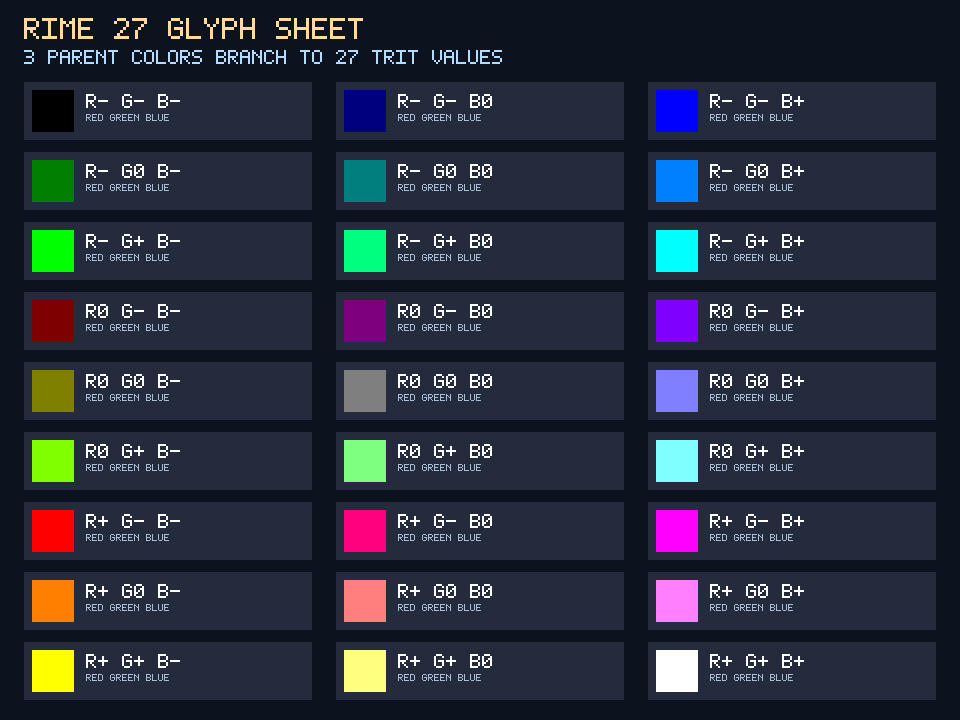
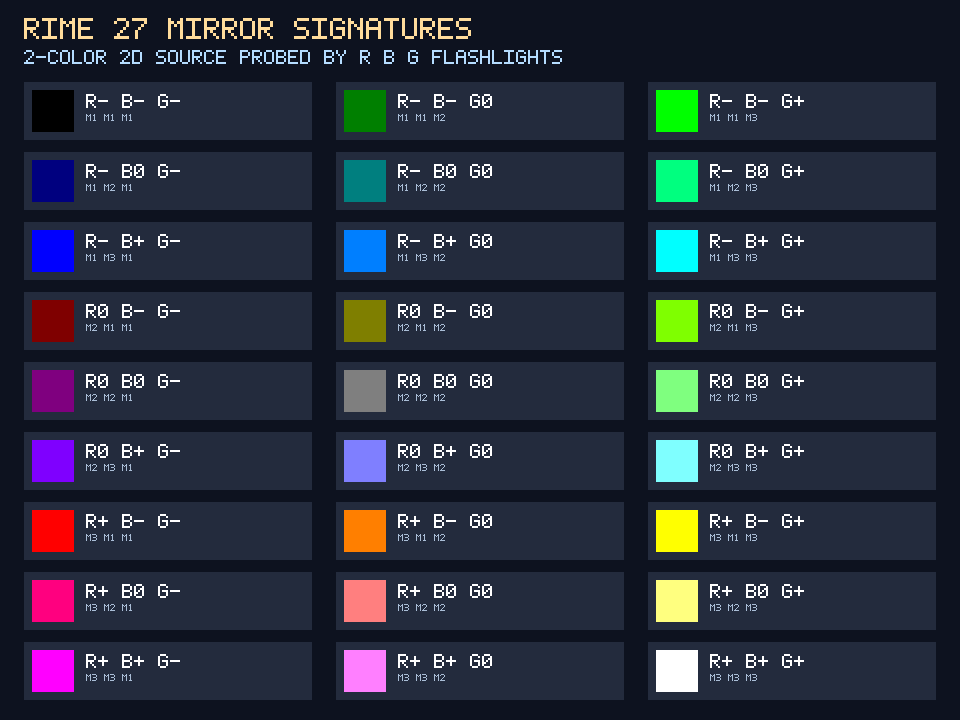
Correct RIME source to two-color 2D mirror model

diff --git a/scratch/new-rime-trit-system/src/trit.rs b/scratch/new-rime-trit-system/src/trit.rs
@@ -10,15 +10,23 @@ impl Trit {
 }
 
 #[derive(Clone, Copy, Debug, Eq, PartialEq)]
-pub struct ColorGlyph { pub red: Trit, pub green: Trit, pub blue: Trit }
+pub enum SourceColorSlot { First, Second }
 
-impl ColorGlyph {
-    pub fn ordinal(self) -> u8 { self.red.code() * 9 + self.green.code() * 3 + self.blue.code() }
-    pub fn rgb(self) -> [u8; 3] { [self.red.rgb(), self.green.rgb(), self.blue.rgb()] }
-    pub fn all() -> Vec<ColorGlyph> {
+impl SourceColorSlot {
+    pub const ALL: [SourceColorSlot; 2] = [SourceColorSlot::First, SourceColorSlot::Second];
+}
+
+#[derive(Clone, Copy, Debug, Eq, PartialEq)]
+pub struct FlashMirrorSignature { pub red: Trit, pub blue: Trit, pub green: Trit }
+
+impl FlashMirrorSignature {
+    pub fn ordinal(self) -> u8 { self.red.code() * 9 + self.blue.code() * 3 + self.green.code() }
+    pub fn display_rgb(self) -> [u8; 3] { [self.red.rgb(), self.green.rgb(), self.blue.rgb()] }
+    pub fn mirror_paths(self) -> [u8; 3] { [self.red.code() + 1, self.blue.code() + 1, self.green.code() + 1] }
+    pub fn all() -> Vec<FlashMirrorSignature> {
         let mut out = Vec::with_capacity(27);
-        for red in Trit::ALL { for green in Trit::ALL { for blue in Trit::ALL {
-            out.push(ColorGlyph { red, green, blue });
+        for red in Trit::ALL { for blue in Trit::ALL { for green in Trit::ALL {
+            out.push(FlashMirrorSignature { red, blue, green });
         }}}
         out
     }
@@ -58,19 +66,31 @@ impl RimeCoordinate {
 }
 
 #[derive(Debug, Eq, PartialEq)]
-pub struct TritStats { pub glyphs: usize, pub coordinates: usize }
+pub struct TritStats {
+    pub source_dimensions: usize,
+    pub source_colors: usize,
+    pub view_signatures: usize,
+    pub coordinates: usize,
+}
 
 pub fn verify() -> Result<TritStats, String> {
-    let glyphs = ColorGlyph::all();
+    let source_colors = SourceColorSlot::ALL;
+    if source_colors.len() != 2 { return Err("2D source must start with exactly two color slots".into()); }
+    let signatures = FlashMirrorSignature::all();
     let mut ordinals = [false; 27];
-    let mut rgb = Vec::with_capacity(glyphs.len());
-    for glyph in &glyphs {
-        let ordinal = usize::from(glyph.ordinal());
-        if ordinals[ordinal] || rgb.contains(&glyph.rgb()) { return Err(format!("glyph collision at {ordinal}")); }
+    let mut projections = Vec::with_capacity(signatures.len());
+    for signature in &signatures {
+        let ordinal = usize::from(signature.ordinal());
+        if ordinals[ordinal] || projections.contains(&signature.display_rgb()) {
+            return Err(format!("flash/mirror signature collision at {ordinal}"));
+        }
         ordinals[ordinal] = true;
-        rgb.push(glyph.rgb());
+        projections.push(signature.display_rgb());
+        if signature.mirror_paths().iter().any(|path| !(1..=3).contains(path)) {
+            return Err("mirror path left the 1/2/3 gate".into());
+        }
     }
-    if !ordinals.iter().all(|seen| *seen) { return Err("missing trinary color glyph".into()); }
+    if !ordinals.iter().all(|seen| *seen) { return Err("missing RGB flashlight/mirror signature".into()); }
     let coordinates = RimeCoordinate::all();
     let mut seen = [false; 27];
     for coordinate in coordinates.iter().copied() {
@@ -79,12 +99,27 @@ pub fn verify() -> Result<TritStats, String> {
         seen[ordinal] = true;
     }
     if !seen.iter().all(|value| *value) { return Err("missing RIME coordinate".into()); }
-    Ok(TritStats { glyphs: glyphs.len(), coordinates: coordinates.len() })
+    Ok(TritStats {
+        source_dimensions: 2,
+        source_colors: source_colors.len(),
+        view_signatures: signatures.len(),
+        coordinates: coordinates.len(),
+    })
 }
 
 #[cfg(test)]
 mod tests {
-    use super::*;#[test] fn exactly_27_color_glyphs() { assert_eq!(verify().unwrap().glyphs, 27); }
+    use super::*;
+    #[test] fn two_color_2d_source_produces_27_probe_signatures() {
+        let stats = verify().unwrap();
+        assert_eq!((stats.source_dimensions, stats.source_colors), (2, 2));
+        assert_eq!(stats.view_signatures, 27);
+    }
+    #[test] fn every_flashlight_uses_one_two_or_three_mirrors() {
+        assert!(FlashMirrorSignature::all().iter().all(|signature| {
+            signature.mirror_paths().iter().all(|path| (1..=3).contains(path))
+        }));
+    }
     #[test] fn paths_are_variable_length_trit_addresses() {
         let mut path = RimePath::new(); path.push(Trit::Negative); path.push(Trit::Positive);
         assert_eq!(path.address(), "R.-.+"); assert_eq!(path.base3_code(), Some(2));

diff --git a/scratch/new-rime-trit-system/generate_cloud_glyph_artifacts.py b/scratch/new-rime-trit-system/generate_cloud_glyph_artifacts.py
@@ -15,8 +15,9 @@ from pathlib import Path
 ROOT = Path(__file__).resolve().parent
 OUT = ROOT / "cloud-glyph-results"
 STATES = ("-", "0", "+")
-CHANNELS = ("RED", "GREEN", "BLUE")
+FLASHLIGHTS = ("RED", "BLUE", "GREEN")
 VALUES = {"-": 0, "0": 127, "+": 255}
+MIRROR_PATH = {"-": 1, "0": 2, "+": 3}
 FONT = {
     " ": (0, 0, 0, 0, 0, 0, 0), "+": (0, 4, 4, 31, 4, 4, 0), "-": (0, 0, 0, 31, 0, 0, 0), "0": (14, 17, 19, 21, 25, 17, 14),
     "1": (4, 12, 4, 4, 4, 4, 14), "2": (14, 17, 1, 2, 4, 8, 31), "3": (30, 1, 1, 14, 1, 1, 30), "7": (31, 1, 2, 4, 8, 8, 8),
@@ -86,61 +87,76 @@ class Canvas:
 
 
 def label(t: tuple[str, str, str]) -> str:
-    return "R%s G%s B%s" % t
+    return "R%s B%s G%s" % t
+
+
+def mirror_label(t: tuple[str, str, str]) -> str:
+    return "M%d M%d M%d" % tuple(MIRROR_PATH[state] for state in t)
+
+
+def projection_rgb(t: tuple[str, str, str]) -> tuple[int, int, int]:
+    red, blue, green = t
+    return VALUES[red], VALUES[green], VALUES[blue]
 
 
 def glyph_sheet(tuples: list[tuple[str, str, str]]):
     image = Canvas(960, 720, (13, 18, 31))
-    image.text(24, 18, "RIME 27 GLYPH SHEET", (255, 220, 155), 3)
-    image.text(24, 50, "3 PARENT COLORS BRANCH TO 27 TRIT VALUES", (180, 220, 255), 2)
+    image.text(24, 18, "RIME 27 MIRROR SIGNATURES", (255, 220, 155), 3)
+    image.text(24, 50, "2-COLOR 2D SOURCE PROBED BY R B G FLASHLIGHTS", (180, 220, 255), 2)
     for index, item in enumerate(tuples):
         column, row = index % 3, index // 3
         x, y = 24 + column * 312, 82 + row * 70
-        rgb = tuple(VALUES[state] for state in item)
+        rgb = projection_rgb(item)
         image.rect(x, y, 288, 58, (35, 43, 61))
         image.rect(x + 8, y + 8, 42, 42, rgb)
         image.text(x + 62, y + 12, label(item), (255, 255, 255), 2)
-        image.text(x + 62, y + 32, "RED GREEN BLUE", (170, 190, 215), 1)
+        image.text(x + 62, y + 32, mirror_label(item), (170, 190, 215), 1)
     image.png(OUT / "rime-27-glyph-sheet.png")
 
 
 def sphere_slices(tuples: list[tuple[str, str, str]]):
     image = Canvas(1200, 760, (10, 15, 26))
-    image.text(28, 20, "RIME 27 SPHERE SLICES", (255, 220, 155), 3)
-    image.text(28, 52, "RED GREEN BLUE TRIT COORDINATES", (180, 220, 255), 2)
+    image.text(28, 20, "RIME 27 MIRROR VIEWS", (255, 220, 155), 3)
+    image.text(28, 52, "2D 2-COLOR SOURCE + R B G LIGHTS + MIRRORS 1 2 3", (180, 220, 255), 2)
     for slice_index, red in enumerate(STATES):
         cx = 205 + slice_index * 395
         image.circle(cx, 250, 150, (24, 35, 57))
         image.circle(cx, 250, 145, (17, 25, 43))
-        image.text(cx - 54, 82, "RED %s" % red, (255, 120, 120), 2)
+        image.text(cx - 72, 82, "RED LIGHT M%d" % MIRROR_PATH[red], (255, 120, 120), 2)
         group = [item for item in tuples if item[0] == red]
         for point, item in enumerate(group):
             px, py = cx - 84 + (point % 3) * 84, 174 + (point // 3) * 52
-            image.circle(px, py, 16, tuple(VALUES[state] for state in item))
+            image.circle(px, py, 16, projection_rgb(item))
             image.text(px - 34, py + 22, label(item), (240, 240, 240), 1)
     for index, item in enumerate(tuples):
         x, y = 25 + (index % 9) * 130, 465 + (index // 9) * 78
-        image.rect(x, y, 118, 65, tuple(max(28, VALUES[s] // 3) for s in item))
+        image.rect(x, y, 118, 65, tuple(max(28, value // 3) for value in projection_rgb(item)))
         image.text(x + 8, y + 12, label(item), (255, 255, 255), 1)
-        image.text(x + 8, y + 35, "R G B", (220, 225, 235), 2)
+        image.text(x + 8, y + 35, mirror_label(item), (220, 225, 235), 1)
     image.png(OUT / "rime-27-sphere-slices.png")
 
 
 def main():
-    tuples = [(red, green, blue) for red in STATES for green in STATES for blue in STATES]
+    tuples = [(red, blue, green) for red in STATES for blue in STATES for green in STATES]
     backend = gpu_backend()
     prepared = run_gpu_coordinate_kernel(backend, tuples)
     if len(prepared) != 27 or len(set(prepared)) != 27:
-        raise RuntimeError("RIME requires exactly 27 distinct red/green/blue tuples")
+        raise RuntimeError("RIME requires exactly 27 distinct RGB-flashlight/mirror signatures")
     OUT.mkdir(exist_ok=True)
     glyph_sheet(prepared)
     sphere_slices(prepared)
+    glyph_path = OUT / "rime-27-glyph-sheet.png"
+    sphere_path = OUT / "rime-27-sphere-slices.png"
+    glyph_digest = hashlib.sha256(glyph_path.read_bytes()).hexdigest()
+    sphere_digest = hashlib.sha256(sphere_path.read_bytes()).hexdigest()
     gpu_execution = 1 if backend != "UNAVAILABLE" else 0
     receipt = "\n".join((
-        "RIME-GPU-RECEIPT|schema=RIME-CLOUD-GLYPH-V1|parent_colors=red,green,blue|states=-,0,+|tuple_count=27",
+        "RIME-GPU-RECEIPT|schema=RIME-CLOUD-MIRROR-V2|source_dimensions=2|starting_colors=2|source_color_names=operator_inputs|view_count=27",
+        "PROBE|flashlights=red,blue,green|mirror_paths=1,2,3|states=-,0,+|trit_map=1:-,2:0,3:+",
         "GPU-PROBE|cuda_device=%d|kfd_device=%d|render_device=%d|compute_backend=%s|gpu_execution=%d" % (Path("/dev/nvidiactl").exists(), Path("/dev/kfd").exists(), bool(list(Path("/dev/dri").glob("renderD*"))), backend, gpu_execution),
         "COORDINATES|" + ";".join(label(item).replace(" ", "") for item in prepared),
-        "ARTIFACTS|glyph_sheet=rime-27-glyph-sheet.png|sphere_slices=rime-27-sphere-slices.png|deterministic=1",
+        "ARTIFACTS|glyph_sheet=rime-27-glyph-sheet.png|glyph_sha256=%s|sphere_slices=rime-27-sphere-slices.png|sphere_sha256=%s|deterministic=1" % (glyph_digest, sphere_digest),
+        "INTERPRETATION|anti_and_anti_anti_verses=OPERATOR_DESIGN|physical_mapping=UNVERIFIED",
         "VERDICT|status=PASS|gpu_execution=%d" % gpu_execution,
         "",
     ))

diff --git a/scratch/new-rime-trit-system/src/omni.rs b/scratch/new-rime-trit-system/src/omni.rs
@@ -1,4 +1,4 @@
-use crate::trit::{ColorGlyph, RimePath, Trit};
+use crate::trit::{FlashMirrorSignature, RimePath, Trit};
 
 #[derive(Clone, Copy, Debug, Eq, PartialEq)]
 pub enum OmniStage { Mtp, Dispatcher, Router, Revolver, Omnimet, Scheduler, Hrm, OmniShannon, Gnn, ReverseGainGnn, RimeFischer }
@@ -17,8 +17,11 @@ fn prime(n: u64) -> bool {
 }
 
 pub fn verify() -> Result<OmniStats, String> {
-    let glyph = ColorGlyph { red: Trit::Negative, green: Trit::Center, blue: Trit::Positive };
-    if glyph.ordinal() >= 27 || glyph.rgb() != [0, 127, 255] { return Err("RGB projection is not trit-derived".into()); }
+    let signature = FlashMirrorSignature { red: Trit::Negative, blue: Trit::Center, green: Trit::Positive };
+    if signature.ordinal() >= 27 || signature.display_rgb() != [0, 255, 127] {
+        return Err("RGB flashlight projection is not trit-derived".into());
+    }
+    if signature.mirror_paths() != [1, 2, 3] { return Err("mirror-path mapping is not 1/2/3".into()); }
     let path = RimePath(vec![Trit::Negative, Trit::Center, Trit::Positive]);
     if path.base3_code().is_none() { return Err("RIME path overflow".into()); }
     if !prime(1000003) || !prime(1000033) { return Err("Rime Fischer endpoints must be prime".into()); }

diff --git a/scratch/new-rime-trit-system/src/lib.rs b/scratch/new-rime-trit-system/src/lib.rs
@@ -7,7 +7,9 @@ pub mod wave;
 
 #[derive(Debug, Eq, PartialEq)]
 pub struct BuildReceipt {
-    pub trit_glyphs: usize,
+    pub source_dimensions: usize,
+    pub source_colors: usize,
+    pub view_signatures: usize,
     pub coordinates: usize,
     pub nest_nodes: u64,
     pub nest_depth: u8,
@@ -25,7 +27,9 @@ pub fn verify() -> Result<BuildReceipt, String> {
     let _wave_routes = wave::verify()?;
     let storage = storage::verify()?;
     Ok(BuildReceipt {
-        trit_glyphs: trit.glyphs,
+        source_dimensions: trit.source_dimensions,
+        source_colors: trit.source_colors,
+        view_signatures: trit.view_signatures,
         coordinates: trit.coordinates,
         nest_nodes: nest.nodes_per_run,
         nest_depth: nest.depth,

diff --git a/scratch/new-rime-trit-system/src/main.rs b/scratch/new-rime-trit-system/src/main.rs
@@ -2,8 +2,9 @@ fn main() {
     match new_rime_trit_system::verify() {
         Ok(receipt) => {
             println!("RIME-TRIT-BUILD|schema=RIME-TRIT-OMNI-V1|rust=1.81|json=0|pid_field=0|binary_alphabet=0");
-            println!("GPU-GATE|compute_probe=generate_cloud_glyph_artifacts.py|parent_colors=3|derived_trit_values=27|json=0");
-            println!("RIMETRIT|alphabet=-,0,+|parent_colors=red,green,blue|parent_count=3|derived_trit_values={}|coordinates={}|json=0", receipt.trit_glyphs, receipt.coordinates);
+            println!("SOURCE-SLICE|dimensions={}|starting_colors={}|color_names=operator_inputs|json=0", receipt.source_dimensions, receipt.source_colors);
+            println!("GPU-GATE|compute_probe=generate_cloud_glyph_artifacts.py|flashlights=red,blue,green|mirrors=1,2,3|gpu_execution=receipt_required|json=0");
+            println!("RIMEVIEW|states=-,0,+|trit_map=1:-,2:0,3:+|derived_view_signatures={}|coordinates={}|json=0", receipt.view_signatures, receipt.coordinates);
             println!("RIMENEST|branching=3|depth={}|nodes_per_run={}|watcher_gate=trit|tamper_levels_tested={}|consent=operator_center_until_explicit|json=0", receipt.nest_depth, receipt.nest_nodes, receipt.nest_depth);
             println!("RIMEPASS|axes=color,time,space,calculation_time,play_time,bits,storage_space|states=-,0,+|coordinates=27|gravity=derived_dimensionless|physical_gravity=UNVERIFIED|json=0");
             println!("DEEPWAVE|carrier_coordinates=27|route_topology=6x6x6x6x6x12|routes=93312|operators=omnishannon,gnn,reverse_gain_gnn,fnn,gslm|trained_weights=UNVERIFIED|json=0");

diff --git a/scratch/new-rime-trit-system/AGENTS.md b/scratch/new-rime-trit-system/AGENTS.md
@@ -1,11 +1,17 @@
 # RIME Trit Build Invariants
 
-- The glyph basis starts with exactly three parent colors: red, green, and blue.
-- Each parent color independently carries one trit in `{-,0,+}`.
-- Their Cartesian product produces 27 distinct derived values:
-  `(red_trit, green_trit, blue_trit) in {-,0,+}^3`.
-- Never describe the result as 27 starting colors. It is 3 parent colors branching to 27 trit tuples.
-- Time, space, gradient, calculation time, play time, bits, and storage are separately measured trit-valued pass dimensions; do not relabel the RGB tuple as color/time/space.
+Status: `ACCEPTED_BY_OPERATOR`. The canonical SkillOpt scenario file is not present in this checkout, so this is not `VALIDATION_ACCEPTED`. The crate-local held-out regression is `trit::tests::two_color_2d_source_produces_27_probe_signatures`.
+
+`REJECTED_BUFFER`: the prior model "three parent RGB colors branch directly to 27 color glyphs" merged the source plane with the observation apparatus and must not be restored.
+
+- The source begins as a 2D slice with exactly two starting colors. Keep their actual names as operator inputs unless Jesse names them explicitly.
+- Red, blue, and green are three independent flashlight probes, not the starting colors.
+- Each flashlight is observed through mirror paths 1, 2, and 3, mapped computationally to `{-,0,+}`.
+- Their Cartesian product produces 27 distinct reflected view signatures:
+  `(red_path, blue_path, green_path) in {-,0,+}^3`.
+- Never describe the result as 27 starting colors or three parent colors. It is a two-color 2D source observed by three RGB flashlight/mirror paths.
+- Anti and anti-anti verses are the operator's interpretation of those reflected views. Keep any physical-universe mapping `UNVERIFIED` until separately measured.
+- Time, space, gradient, calculation time, play time, bits, and storage are separately measured trit-valued pass dimensions; do not relabel the flashlight tuple as color/time/space.
 - Do not introduce 256, 1024, 4096, PID, or binary identities into the internal RIME glyph alphabet.
 - The `6x6x6x6x6x12 = 93,312` Deep Wave number is route topology over the fixed trit carrier, not glyph-alphabet growth.
 - Keep GPU execution evidence explicit. A cloud agent run without an exposed GPU is a valid CPU artifact run with `gpu_execution=0`, never a GPU-kernel claim.

diff --git a/scratch/new-rime-trit-system/CLOUD-GPU-GLYPH-TASK.md b/scratch/new-rime-trit-system/CLOUD-GPU-GLYPH-TASK.md
@@ -2,10 +2,11 @@
 
 Run the Rust 1.81 crate in this directory and preserve the fixed carrier:
 
-- the three starting colors are red, green, and blue
-- each starting color takes a distinct `-,0,+` value
-- their product creates 27 different trit-value combinations
-- color × time × space is `3 × 3 × 3 = 27`
+- the source is a 2D slice with exactly two starting colors; do not invent their names
+- red, blue, and green are three flashlight probes, not source colors
+- each flashlight uses mirror path 1, 2, or 3, mapped to `-,0,+`
+- the product of the three flashlight/mirror paths creates 27 reflected view signatures
+- `(red_path, blue_path, green_path) in {-,0,+}^3`, so `3 × 3 × 3 = 27`
 - `6×6×6×6×6×12 = 93,312` is route topology over the 27 derived trit-value combinations, not an alphabet
 - do not introduce 256, 1024, 4096, PID, or binary glyph identities
 
@@ -21,5 +22,6 @@ Create visible artifacts under `cloud-glyph-results/`:
 3. `gpu-runtime-receipt.hbp`
 4. `gpu-runtime-receipt.hbp.sha256`
 
-The images must visibly label the three states and all 27 color/time/space
-coordinates. Use deterministic generation so reruns produce identical bytes.
+The images must visibly show the two-color 2D source boundary, three RGB
+flashlights, mirror paths 1/2/3, and all 27 reflected signatures. Use
+deterministic generation so reruns produce identical bytes.